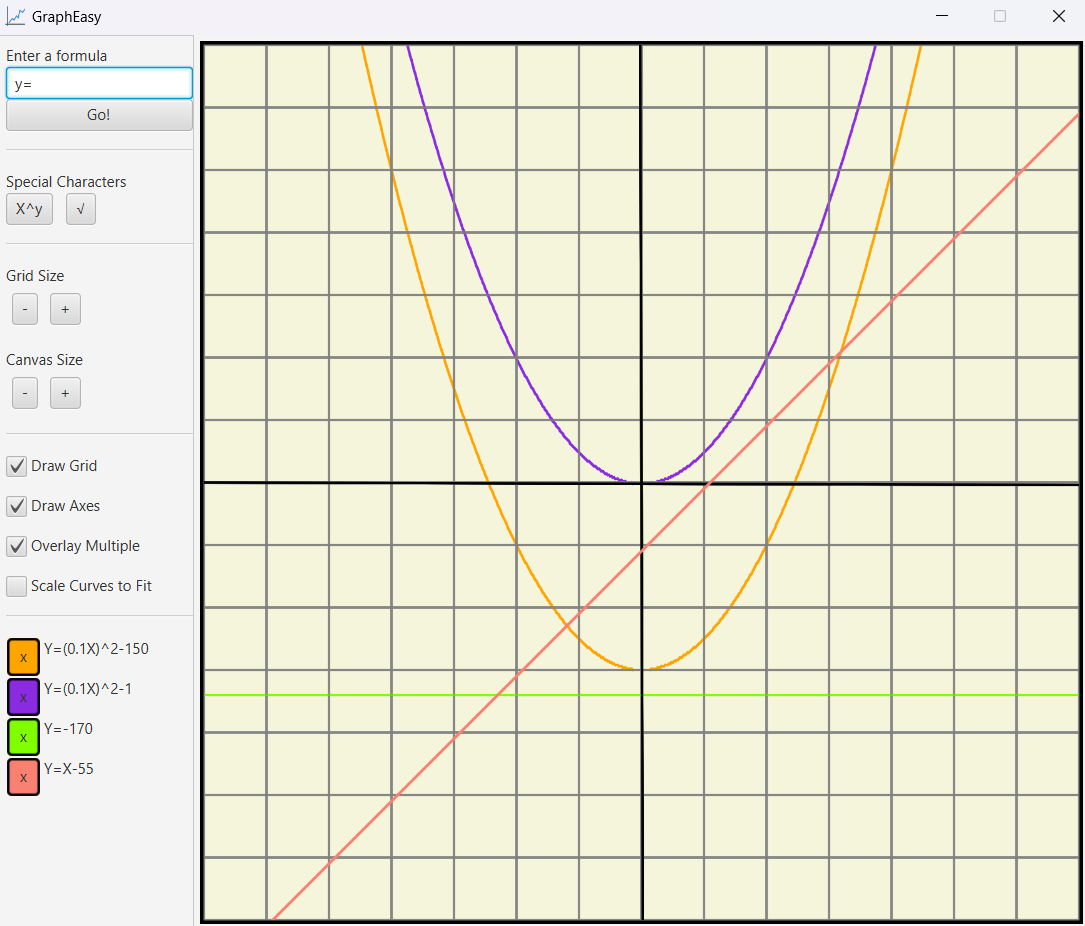
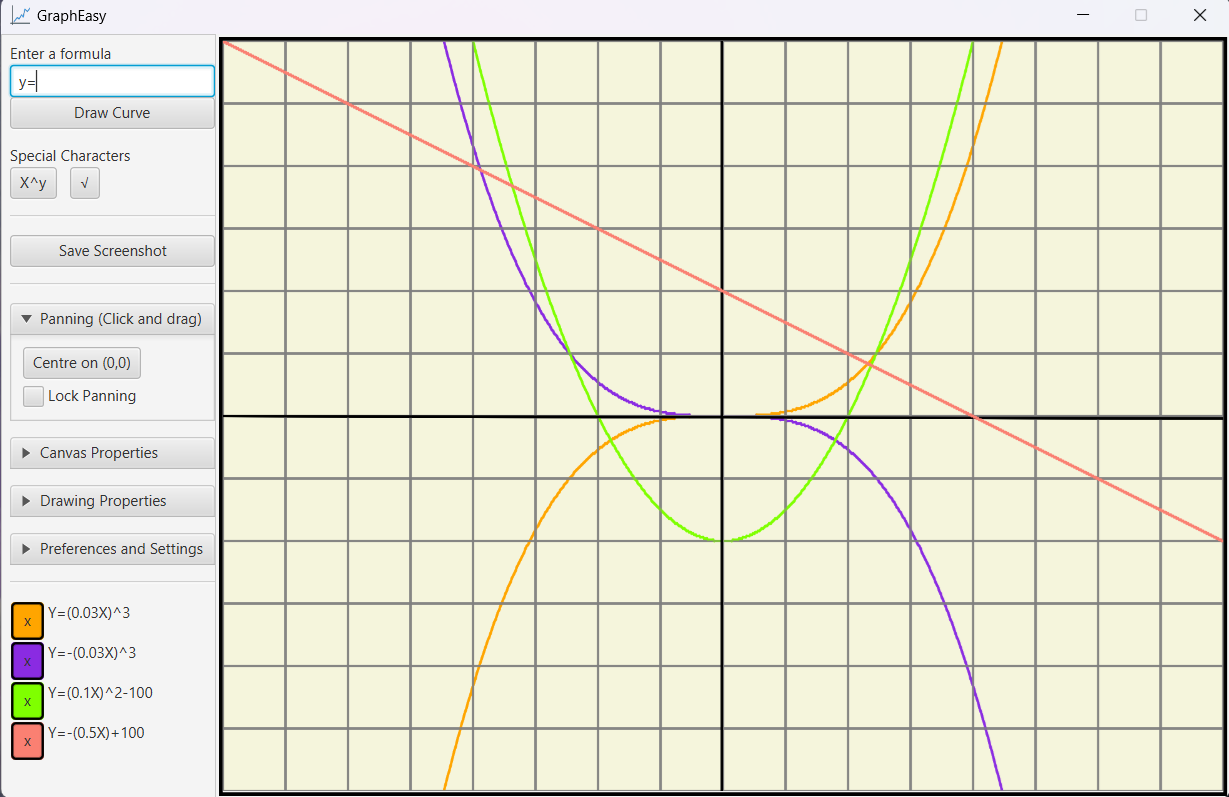
Grouped UI elements into TitledPanes to reduce visual clutter

Changed region(s): [[0.0, 0.0, 1.0, 1.0], [0.0, 0.9937, 0.0304, 1.0]]

diff --git a/data-display-demo/src/main/java/mainClasses/MainController.java b/data-display-demo/src/main/java/mainClasses/MainController.java
@@ -25,6 +25,7 @@ import javafx.scene.control.CheckBox;
 import javafx.scene.control.Label;
 import javafx.scene.control.ScrollPane;
 import javafx.scene.control.TextField;
+import javafx.scene.control.TitledPane;
 import javafx.scene.control.Tooltip;
 import javafx.scene.image.Image;
 import javafx.scene.image.WritableImage;
@@ -124,6 +125,9 @@ public class MainController {
 	CheckBox fillBackgroundCheckBox;
 	@FXML
 	CheckBox setAlwaysOnTopCheckBox;
+	@FXML
+	TitledPane drawingPropertiesTitledPane, preferencesTitledPane, canvasPropertiesTitledPane, panningTitledPane;
+	
 
 	int canvasSizeChangeInterval = 100;
 	int canvasMinimumSize = 400;
@@ -158,7 +162,7 @@ public class MainController {
 	final String removeRowString = "x";
 	final String formulaBoxStartingText = "y=";
 
-	final String pressEnterOnFormulaTooltip = "Type in a formula, then press enter or press \"Go!\"";
+	final String pressEnterOnFormulaTooltip = "Type in a formula, then press enter or press \"Draw Curve\"";
 	final String goButtonTooltip = "Add the curve to the graph";
 	final String snapshotTooltip = "Save the current canvas to your computer as an image";
 	final String listUiTooltip = "Click to add this formula to the text box";
@@ -197,6 +201,8 @@ public class MainController {
 		setSmallButtonProperties();
 		addTooltips();
 		setCanvasListeners();
+		setMarginToTitlePaneContents();
+		closeTitlePanes();
 
 		// non-specific vvv
 		
@@ -210,7 +216,7 @@ public class MainController {
 		
 //		VBox.setVgrow(listOfLineScrollPane, Priority.ALWAYS);
 
-		VBox.setMargin(panCentreButton, new Insets(5, 0, 5, 0));
+		VBox.setMargin(panCentreButton, new Insets(0, 0, 5, 0));
 		
 		formulaEntryTF.setText(formulaBoxStartingText);
 		Platform.runLater(() -> {
@@ -227,6 +233,22 @@ public class MainController {
 		formulaEntryTF.setOnAction(event -> {
 			setCurveToCanvas();
 		});
+
+	}
+
+	private void closeTitlePanes() {
+
+		panningTitledPane.setExpanded(false);
+		canvasPropertiesTitledPane.setExpanded(false);
+		drawingPropertiesTitledPane.setExpanded(false);
+		preferencesTitledPane.setExpanded(false);
+		
+	}
+
+	private void setMarginToTitlePaneContents() {
+
+		setSmallMarginToInternalComponents(drawingPropertiesTitledPane);
+		setSmallMarginToInternalComponents(preferencesTitledPane);
 
 	}
 
@@ -283,7 +305,7 @@ public class MainController {
 		canvas.setHeight(AppClass.defaultStageHeight);
 		canvas.setWidth(AppClass.defaultStageWidth);
 
-		int canvasMargin = 5;
+		int canvasMargin = 2;
 		HBox.setMargin(canvasBox, new Insets(canvasMargin, canvasMargin, canvasMargin, canvasMargin));
 		canvasBox.setPrefWidth(Region.USE_COMPUTED_SIZE);
 		canvasBox.setPrefHeight(Region.USE_COMPUTED_SIZE);
@@ -921,6 +943,16 @@ public class MainController {
 
 	private boolean getPinnedToFront() {
 		return setAlwaysOnTopCheckBox.isSelected();
+	}
+
+	private void setSmallMarginToInternalComponents(TitledPane pane) {
+		Insets insets = new Insets(4,0,0,0);
+		if(pane.getContent() instanceof VBox) {
+			((VBox)pane.getContent()).getChildren().forEach(x -> VBox.setMargin(x, insets));
+		}
+		if(pane.getContent() instanceof HBox) {
+			((HBox)pane.getContent()).getChildren().forEach(x -> HBox.setMargin(x, insets));
+		}
 	}
 	
 }
